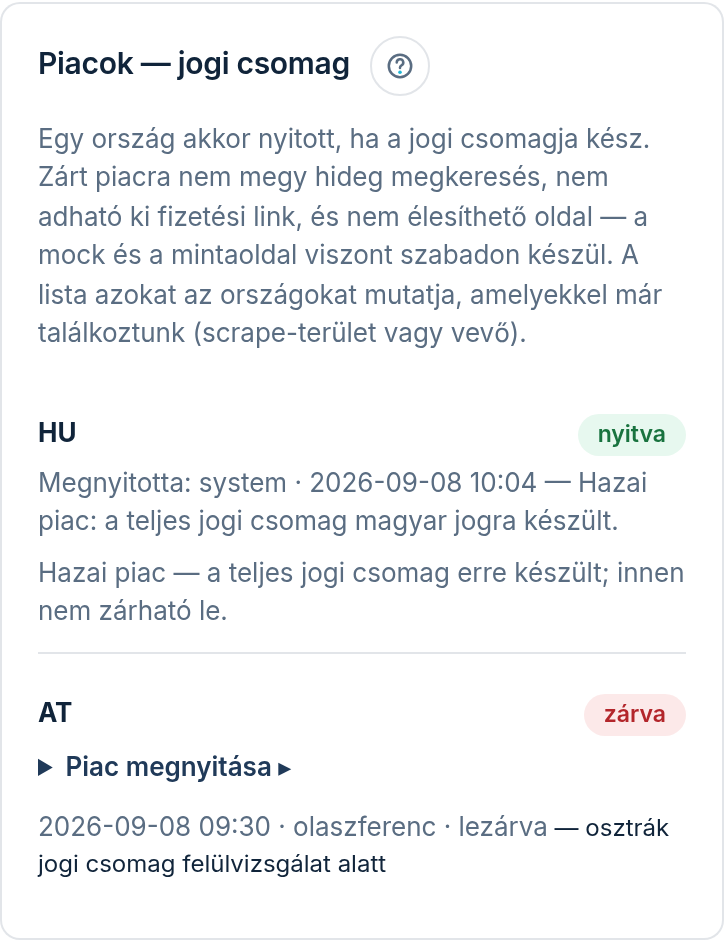
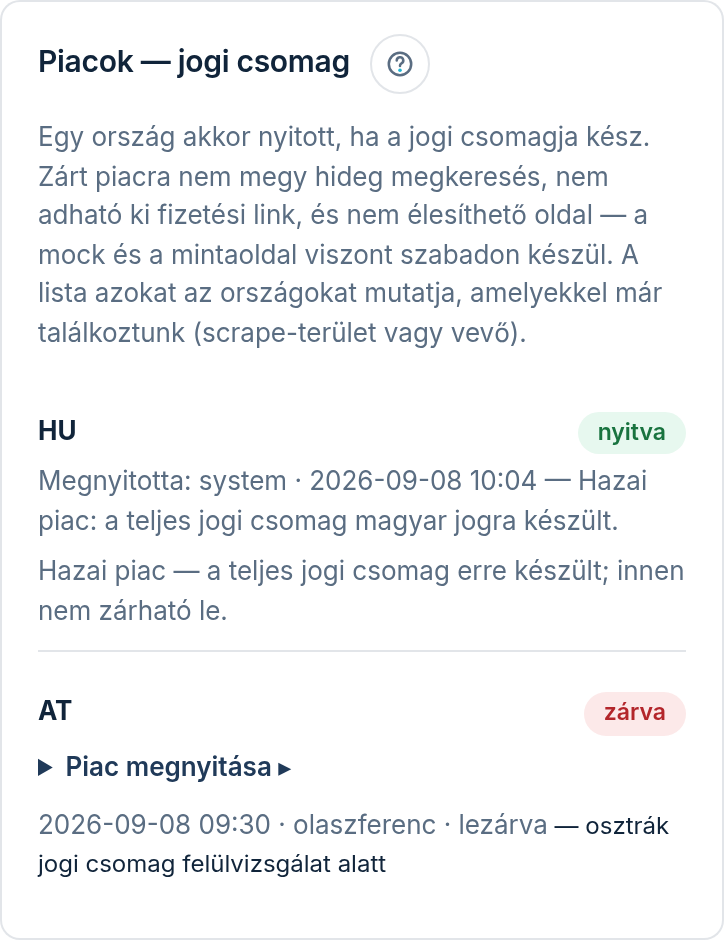
docs(kb): console-markets súgó-kép a bővült riasztás-panel után (deploy GATE 1c)
A markets-panel a beállítások lap 3. panelje; a fölötte álló riasztás-panel
mondatának bővülése (fe8fe12c) 1 CSS px-szel elcsúsztatta. A kép a deploy
dry-run által a cél-commiton gyártott változat.

Claude-Session: https://claude.ai/code/session_011hC1fhopstthqQobaYN54z

diff --git a/_planning/memory/2026-10-12_deploy_blokkolok_elek_it.md b/_planning/memory/2026-10-12_deploy_blokkolok_elek_it.md
@@ -18,8 +18,9 @@ Elek jelentése: `~/wt/cit333dea6d/_from-sub/4eeced55/_elek/JELENTES.md`.
   + 1 apró): pótolva `admin-modules` („A Modulok fül az ingyenes próba alatt”), `admin-overview` („Másik címet
   szeretne? — folytatáskor egyszer, ingyen”), `console-settings` (ragadt saját domain riasztás + jelszócsere
   kiléptet / 30 napos belépés). A konzol riasztás-panel „MINDEN üzemi riasztás” mondata a domainnel bővült.
-  ⚠ A `kb-shot` console-markets / admin-modules-rooms / console-scrape képei futásonként apró (hover, 1–2 px)
-  zajt adnak — a deploy-kapu a commitolt változatot frissnek mérte, ezek NEM kerültek újra commitba.
+  ⚠ A console-markets kép a beállítások lap 3. panelje: a fölötte álló riasztás-panel szövegének bármilyen
+  változása elcsúsztatja (1 CSS px) — ez VALÓDI eltérés, nem zaj; egyszer tévesen zajnak vettem, a végső
+  dry-run fogta meg. Valódi zaj csak a console-scrape egér-hover háttere és az admin-modules-rooms 48 px-e.
 - **ÚJ-K1** (ADR-0372, koordinátori döntés) — `dns_pending`/`tls_pending`-ben ragadt megvett név: 24 óra →
   operátor-riasztás, 72 óra → ismételt riasztás + EGY „A webcím az Öné — a beállítás tovább tart” levél (ha a
   setup_retry már küldte, nem újra), soha nem naponta. Migráció `0107_domain_setup_stuck_alert.sql`. Őr:
